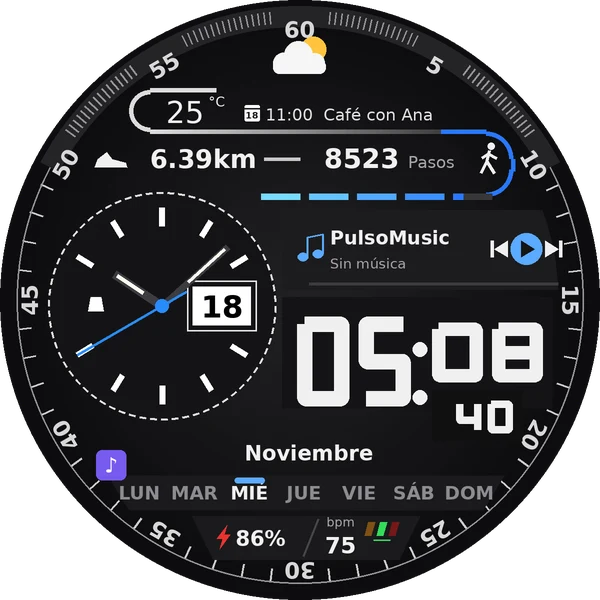
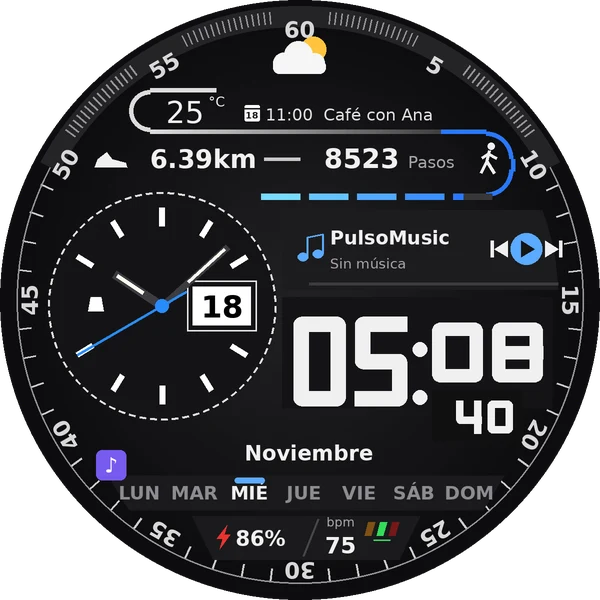
Pulso Híbrida: números sin huecos en las puntas y separados de los dos puntos
Claude-Session: https://claude.ai/code/session_01RTdv2VrACuR4VFWJLA57hx

Changed region(s): [[0.48, 0.51, 0.63, 0.69], [0.63, 0.6, 0.69, 0.69], [0.66, 0.51, 0.69, 0.57]]

diff --git a/android/esferas-de-reloj/hibrida/src/main/java/cl/carlospnauto/esfera/FaceService.kt b/android/esferas-de-reloj/hibrida/src/main/java/cl/carlospnauto/esfera/FaceService.kt
@@ -475,7 +475,7 @@ class HybridRenderer(
         val h = if (is24) "%02d".format(t.hour) else (if (t.hour % 12 == 0) 12 else t.hour % 12).toString()
         // Números cuadrados con las esquinas redondeadas, como los de la foto
         // Como en la foto: la hora grande y los minutos más chicos, alineados arriba
-        SquareDigits.draw(canvas, h, X(0.37f), Y(0.055f), r * 0.175f, r * 0.30f, r * 0.052f, r * 0.03f, white, alignRight = true)
+        SquareDigits.draw(canvas, h, X(0.358f), Y(0.055f), r * 0.175f, r * 0.30f, r * 0.052f, r * 0.03f, white, alignRight = true)
         // Dos puntos redondos
         fill.color = white
         canvas.drawCircle(X(0.40f), Y(0.165f), r * 0.024f, fill)

diff --git a/android/esferas-de-reloj/hibrida/src/main/java/cl/carlospnauto/esfera/SquareDigits.kt b/android/esferas-de-reloj/hibrida/src/main/java/cl/carlospnauto/esfera/SquareDigits.kt
@@ -12,7 +12,7 @@ import android.graphics.Path
 object SquareDigits {
     private val paint = Paint(Paint.ANTI_ALIAS_FLAG).apply {
         style = Paint.Style.STROKE
-        strokeCap = Paint.Cap.BUTT
+        strokeCap = Paint.Cap.SQUARE
         strokeJoin = Paint.Join.MITER
     }
     private val path = Path()
